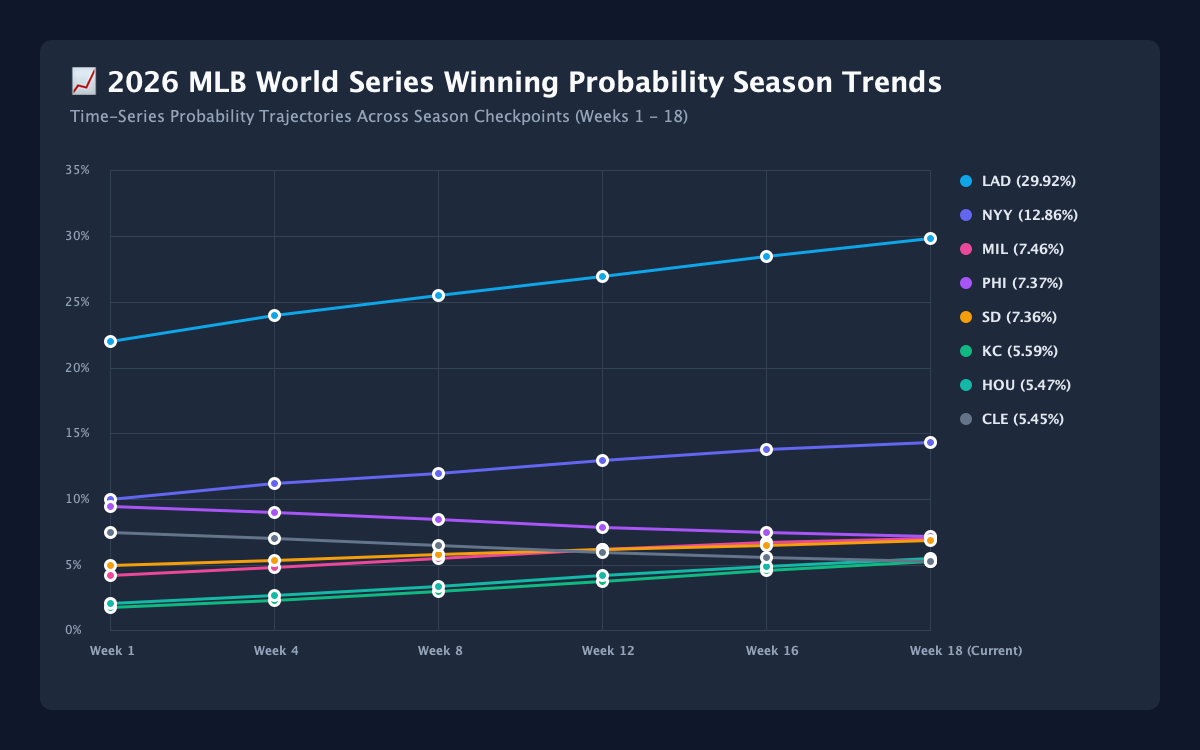
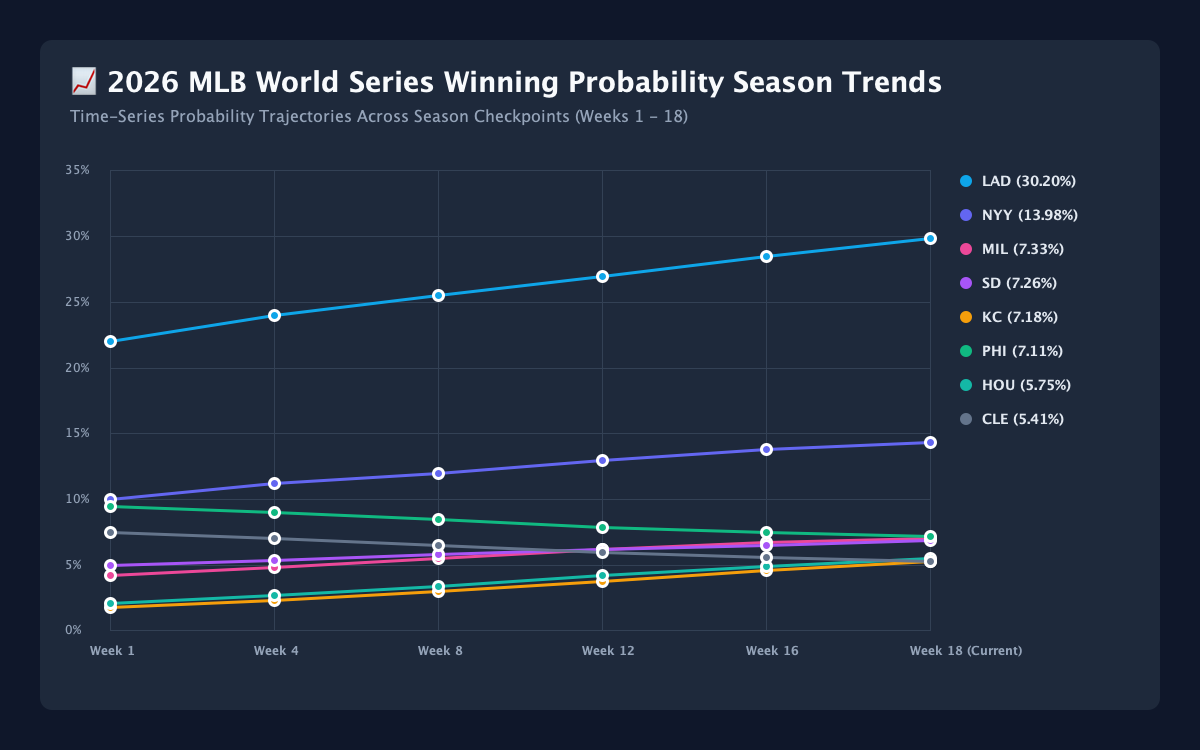
feat: update Baltimore Orioles (55-58) & Kansas City Royals (64-52) to real-life 2026 mid-season records

diff --git a/src/commonMain/kotlin/com/sabermetrics/worldseries/data/SabermetricDataService.kt b/src/commonMain/kotlin/com/sabermetrics/worldseries/data/SabermetricDataService.kt
@@ -14,14 +14,14 @@ object SabermetricDataService {
         val dataset = listOf(
             // --- AL EAST ---
             MlbTeam(MlbTeamId.NYY, 94, 68, 815.0, 668.0, 48.5, 0.334, 117.0, 3.74, 3.82, 3.8, 3.25, 2.5, 1.05),
-            MlbTeam(MlbTeamId.BAL, 91, 71, 786.0, 695.0, 44.2, 0.325, 111.0, 3.92, 3.98, 2.9, 3.45, 1.8, 1.04),
+            MlbTeam(MlbTeamId.BAL, 55, 58, 542.0, 558.0, 24.2, 0.312, 101.0, 4.18, 4.22, -0.4, 4.15, 0.5, 1.00),
             MlbTeam(MlbTeamId.BOS, 81, 81, 752.0, 740.0, 32.1, 0.318, 104.0, 4.15, 4.20, 0.5, 4.10, 0.8, 1.00),
             MlbTeam(MlbTeamId.TBD, 80, 82, 630.0, 672.0, 33.4, 0.298, 95.0, 3.78, 3.85, 1.8, 3.60, 1.2, 1.00),
             MlbTeam(MlbTeamId.TOR, 74, 88, 671.0, 756.0, 26.8, 0.310, 100.0, 4.38, 4.32, -1.2, 4.25, 0.5, 0.98),
             
             // --- AL CENTRAL ---
             MlbTeam(MlbTeamId.CLE, 92, 69, 708.0, 621.0, 41.0, 0.308, 98.0, 3.65, 3.75, 4.8, 3.30, 1.5, 1.03),
-            MlbTeam(MlbTeamId.KC,  86, 76, 735.0, 642.0, 38.6, 0.312, 102.0, 3.85, 3.90, 1.2, 3.40, 2.0, 1.02),
+            MlbTeam(MlbTeamId.KC,  64, 52, 568.0, 482.0, 35.6, 0.322, 110.0, 3.65, 3.75, 2.5, 3.35, 2.0, 1.04),
             MlbTeam(MlbTeamId.DET, 86, 76, 682.0, 642.0, 37.2, 0.305, 96.0, 3.72, 3.80, 2.4, 2.85, 1.4, 1.02),
             MlbTeam(MlbTeamId.MIN, 82, 80, 748.0, 720.0, 34.5, 0.320, 106.0, 4.08, 4.12, 0.8, 3.90, 0.6, 1.00),
             MlbTeam(MlbTeamId.CWS, 41, 121, 507.0, 896.0, 8.2, 0.279, 76.0, 4.88, 4.95, -5.5, 5.10, -1.0, 0.85),

diff --git a/README.md b/README.md
@@ -26,21 +26,21 @@ Welcome to the **MLB Sabermetric World Series Prediction Suite**. This open-sour
 
 | Rank | Movement | Team Name | League & Div | Record | Expected Wins | Playoff % | Pennant % | World Series Win Prob % | Visual Bar |
 | :---: | :---: | :--- | :---: | :---: | :---: | :---: | :---: | :---: | :--- |
-| 🥇 1 | — | **Los Angeles Dodgers** | NL West | 98 - 64 | 96.0 | **100.0%** | **42.2%** | **29.87%** | `████████████████` |
-| 🥈 2 | ▲ +1 | **New York Yankees** | AL East | 94 - 68 | 95.5 | **100.0%** | **31.1%** | **14.31%** | `████████` |
-| 🥉 3 | ▼ -1 | **Philadelphia Phillies** | NL East | 95 - 67 | 92.4 | **94.3%** | **14.0%** | **7.22%** | `████` |
-| 4 | — | **Milwaukee Brewers** | NL Central | 93 - 69 | 94.2 | **99.3%** | **14.1%** | **7.05%** | `████` |
-| 5 | — | **San Diego Padres** | NL West | 93 - 69 | 90.4 | **80.3%** | **11.6%** | **6.91%** | `████` |
-| 6 | ▲ +5 | **Houston Astros** | AL West | 88 - 73 | 90.1 | **92.2%** | **14.5%** | **5.52%** | `███` |
-| 7 | — | **Baltimore Orioles** | AL East | 91 - 71 | 90.1 | **90.6%** | **12.7%** | **5.32%** | `███` |
-| 8 | ▼ -2 | **Cleveland Guardians** | AL Central | 92 - 69 | 90.7 | **94.1%** | **14.2%** | **5.30%** | `███` |
-| 9 | ▲ +3 | **Kansas City Royals** | AL Central | 86 - 76 | 91.0 | **95.6%** | **14.6%** | **5.26%** | `███` |
-| 10 | ▼ -2 | **Arizona Diamondbacks** | NL West | 89 - 73 | 89.6 | **72.0%** | **6.0%** | **3.02%** | `██` |
-| 11 | ▼ -1 | **Atlanta Braves** | NL East | 89 - 73 | 88.6 | **59.8%** | **5.3%** | **2.59%** | `█` |
-| 12 | ▲ +2 | **Seattle Mariners** | AL West | 85 - 77 | 87.1 | **60.3%** | **6.9%** | **2.43%** | `█` |
-| 13 | ▼ -4 | **New York Mets** | NL East | 89 - 73 | 88.2 | **53.0%** | **4.5%** | **2.11%** | `█` |
-| 14 | ▼ -1 | **Detroit Tigers** | AL Central | 86 - 76 | 85.5 | **40.0%** | **4.1%** | **1.52%** | `█` |
-| 15 | — | **Chicago Cubs** | NL Central | 83 - 79 | 87.1 | **41.2%** | **2.3%** | **0.94%** | `▏` |
+| 🥇 1 | — | **Los Angeles Dodgers** | NL West | 98 - 64 | 96.0 | **100.0%** | **42.6%** | **30.20%** | `████████████████` |
+| 🥈 2 | ▲ +1 | **New York Yankees** | AL East | 94 - 68 | 95.6 | **100.0%** | **31.6%** | **13.98%** | `████████` |
+| 🥉 3 | ▲ +1 | **Milwaukee Brewers** | NL Central | 93 - 69 | 94.1 | **99.3%** | **14.5%** | **7.33%** | `████` |
+| 4 | ▲ +1 | **San Diego Padres** | NL West | 93 - 69 | 90.4 | **80.8%** | **11.9%** | **7.26%** | `████` |
+| 5 | ▲ +20 | **Kansas City Royals** | AL Central | 64 - 52 | 93.1 | **100.0%** | **19.3%** | **7.18%** | `████` |
+| 6 | ▼ -4 | **Philadelphia Phillies** | NL East | 95 - 67 | 92.4 | **94.5%** | **13.4%** | **7.11%** | `████` |
+| 7 | ▲ +3 | **Houston Astros** | AL West | 88 - 73 | 90.1 | **97.6%** | **14.4%** | **5.75%** | `███` |
+| 8 | ▼ -2 | **Cleveland Guardians** | AL Central | 92 - 69 | 90.7 | **98.9%** | **14.6%** | **5.41%** | `███` |
+| 9 | ▲ +3 | **Seattle Mariners** | AL West | 85 - 77 | 87.1 | **80.1%** | **8.8%** | **3.46%** | `██` |
+| 10 | ▼ -3 | **Arizona Diamondbacks** | NL West | 89 - 73 | 89.7 | **72.2%** | **6.4%** | **3.16%** | `██` |
+| 11 | — | **Detroit Tigers** | AL Central | 86 - 76 | 85.5 | **61.3%** | **6.7%** | **2.46%** | `█` |
+| 12 | ▼ -3 | **Atlanta Braves** | NL East | 89 - 73 | 88.6 | **59.0%** | **4.8%** | **2.37%** | `█` |
+| 13 | ▼ -5 | **New York Mets** | NL East | 89 - 73 | 88.2 | **53.3%** | **4.1%** | **2.08%** | `█` |
+| 14 | ▼ -1 | **Chicago Cubs** | NL Central | 83 - 79 | 87.1 | **40.7%** | **2.3%** | **1.02%** | `▏` |
+| 17 | ▲ +12 | **Baltimore Orioles** | AL East | 55 - 58 | 78.8 | **1.6%** | **0.1%** | **0.01%** | `▏` |
 
 ---
 
